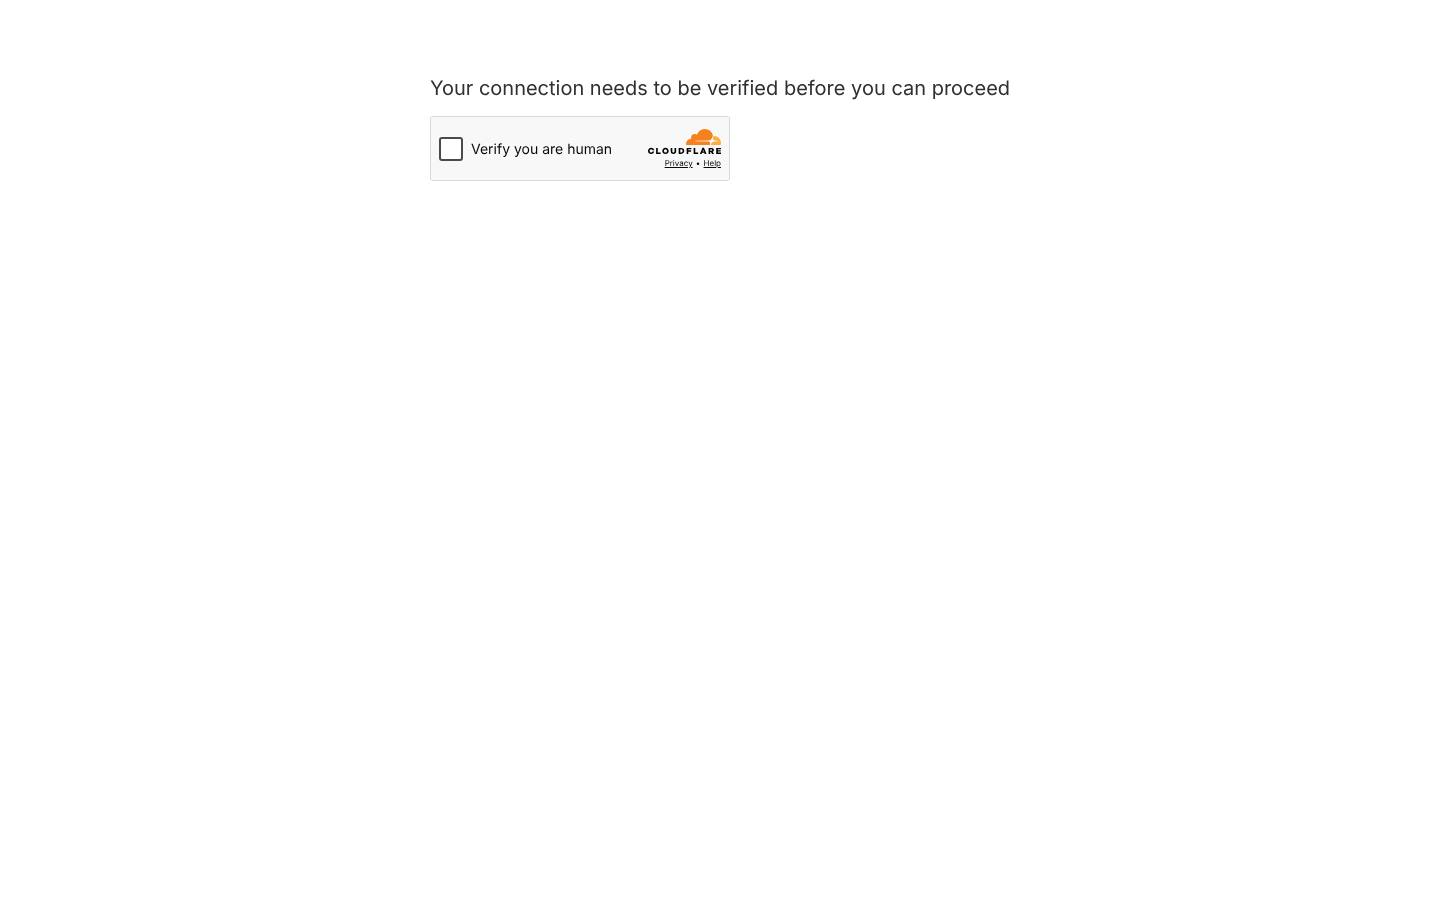
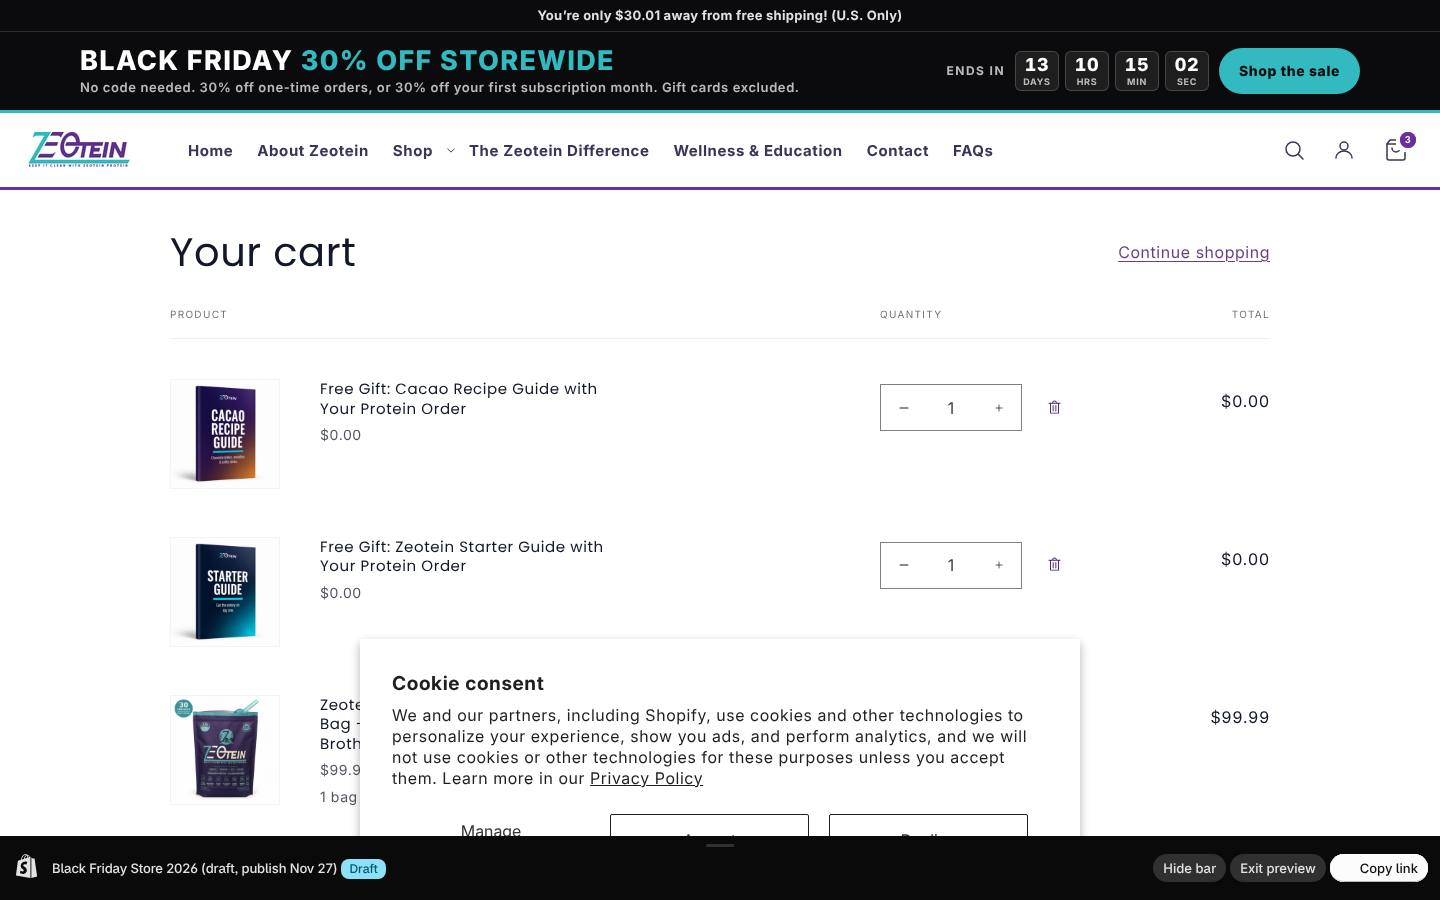
Verification pass: cart and checkout results for live and Black Friday
Live: add to cart, free guides at $0, cart page and checkout start pass on desktop and iPhone.
Black Friday preview: cart passes on desktop and iPhone, checkout start on desktop.

Claude-Session: https://claude.ai/code/session_01D28ukaCB7Cnc3EGQpjbouB

diff --git a/site-audit/2026-11-17/tools/cartflow-vp.js b/site-audit/2026-11-17/tools/cartflow-vp.js
@@ -44,9 +44,11 @@ fs.mkdirSync(outDir, { recursive: true });
       f.cartPage = await cartJs();
       f.cartLiquidErrors = await p.evaluate(() => (document.documentElement.outerHTML.match(/Liquid error[^<]{0,100}/g) || []).length);
       await p.screenshot({ path: `${outDir}/${prof}-cart.jpg`, type: 'jpeg', quality: 72 });
+      await p.evaluate(() => document.querySelectorAll('#shopify-pc__banner, #preview-bar-iframe, #PBarNextFrameWrapper, iframe[src*="preview_bar"], [id^="PBar"]').forEach(e => e.remove())).catch(() => {});
       const co = p.locator('button[name="checkout"]:visible, input[name="checkout"]:visible, a[href*="/checkout"]:visible').first();
+      if (await co.count()) await co.scrollIntoViewIfNeeded().catch(() => {});
       if (await co.count()) {
-        await Promise.all([p.waitForURL(u => /\/checkouts?\//.test(String(u)), { timeout: 45000 }).catch(() => null), co.click({ timeout: 10000 })]);
+        await Promise.all([p.waitForURL(u => /\/checkouts?\//.test(String(u)), { timeout: 45000 }).catch(() => null), co.click({ timeout: 10000 }).catch(() => co.click({ timeout: 10000, force: true }))]);
         await sleep(7000);
         const u = new URL(p.url());
         f.checkout = { host: u.host, path: u.pathname.replace(/[A-Za-z0-9]{16,}/g, '<id>'), title: (await p.title()).slice(0, 80),

diff --git a/site-audit/2026-11-17/verify/VERIFY-2026-11-17.md b/site-audit/2026-11-17/verify/VERIFY-2026-11-17.md
@@ -13,6 +13,7 @@ entered, no order); the test cart was cleared each time.
   (`tools/vp.js`, report `live-2026-11-17/report.json`). Cart and checkout: `tools/cartflow-vp.js`. Black Friday preview pages:
   plain requests (`tools/vp_html.py`, `bf-2026-11-17/html-bf.json`) because Shopify's bot protection started rate-limiting the
   test browser after about 120 page loads (429 "Just a moment"); that is my traffic, not a site problem.
+- The cart's "Estimated total $99.99 USD" keeps the currency code on purpose (Dawn default, noted this morning).
 - Not testable from here: Judge.me's badge and review photos (my test machine's network blocks Judge.me's image host, so
   they show as broken only here).
 
@@ -25,8 +26,8 @@ entered, no order); the test cart was cleared each time.
 | Protein Blends, Shop Cacao, Shop Vegan chooser pages | PASS (chooser works, button opens the product page with the chosen option) |
 | Collections: Cacao, Vegan, Single Ingredients, Protein Blends | PASS |
 | 20 product pages + Cacao landing page | PASS, except the Cacao landing page: 8 Liquid errors in its CSS (fix in PASTE-LIST, item 1) |
-| Cart | PASS (bag added, 2 free guides added at $0, no errors) |
-| Checkout start | PASS (opens with Zeotein logo, Contact, Delivery, Payment, Order summary; stopped there) |
+| Add to cart + cart page | PASS on desktop and iPhone (Cacao bag added, Cacao Recipe Guide and Starter Guide added at $0, no errors) |
+| Checkout start | PASS on desktop and iPhone (opens with the Zeotein logo; Contact, Delivery, Payment, Order summary; both guides and the bag listed; stopped there, cart cleared) |
 
 ## Approved fixes on live
 
@@ -58,6 +59,10 @@ entered, no order); the test cart was cleared each time.
 All 35 pages return 200 with the Black Friday theme and 0 Liquid errors, including the Cacao landing page (fixed there),
 the Black Friday bag page and Stocking Stuffers. Black banner on every page that uses the store header; Black Friday price
 lines on product cards (19 on Shop All); Vegan 30 Black Friday table; reviews, guarantee, chooser pages, menus as on live.
+Cart: PASS on desktop and iPhone (Cacao bag added, both guides added at $0, cart page 0 errors). Checkout start: PASS on
+desktop (opens with Contact, Delivery, Payment, Order summary and all three lines). On iPhone the Checkout button is there but
+the test click landed on Shopify's cookie pop-up and preview bar, which only exist in a fresh preview session; the same cart
+code opened checkout on live iPhone. This also covers the "BF cart test" listed as due Thu 19 Nov.
 
 ## Held, not changed
 5.0 to 4.9 stars (live homepage hero shows "5.0 from 155 reviews", the landing page "5.0 stars 155"); price, discount, Seal,
